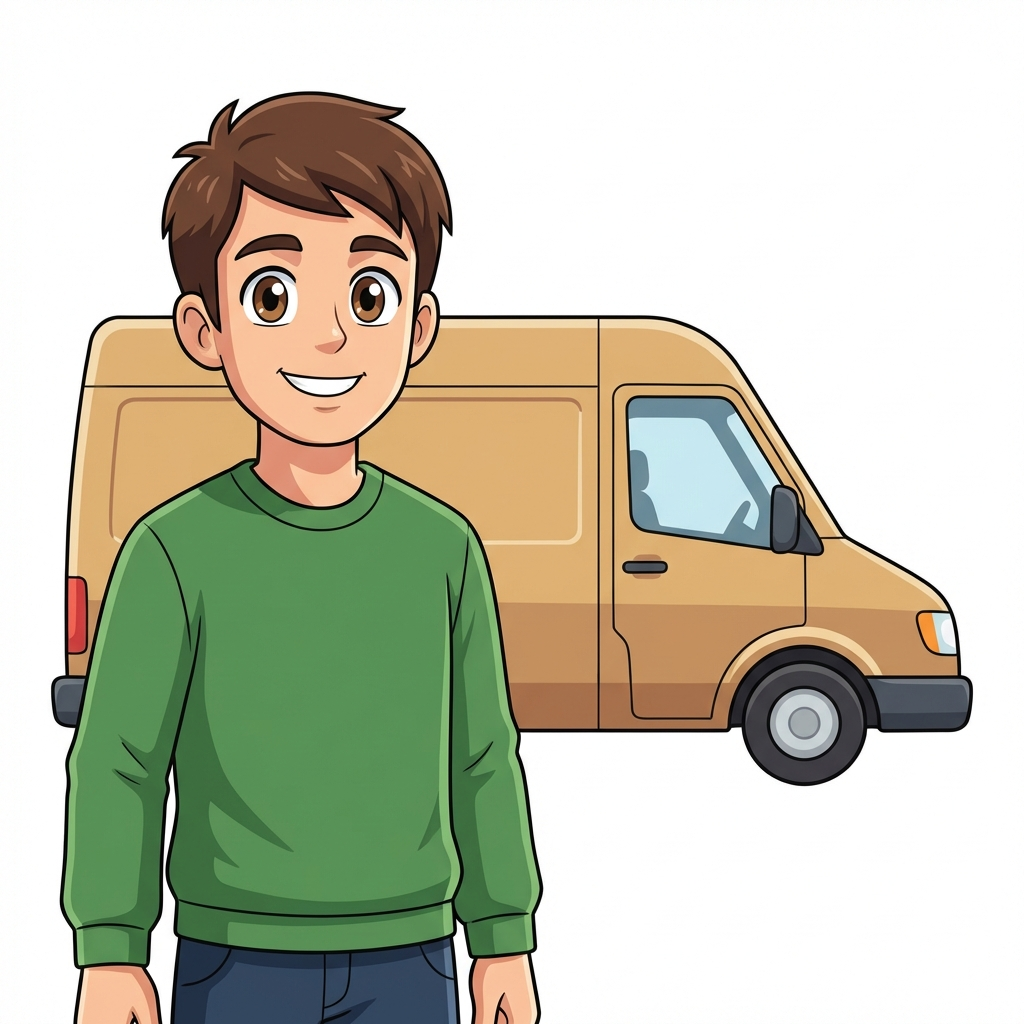
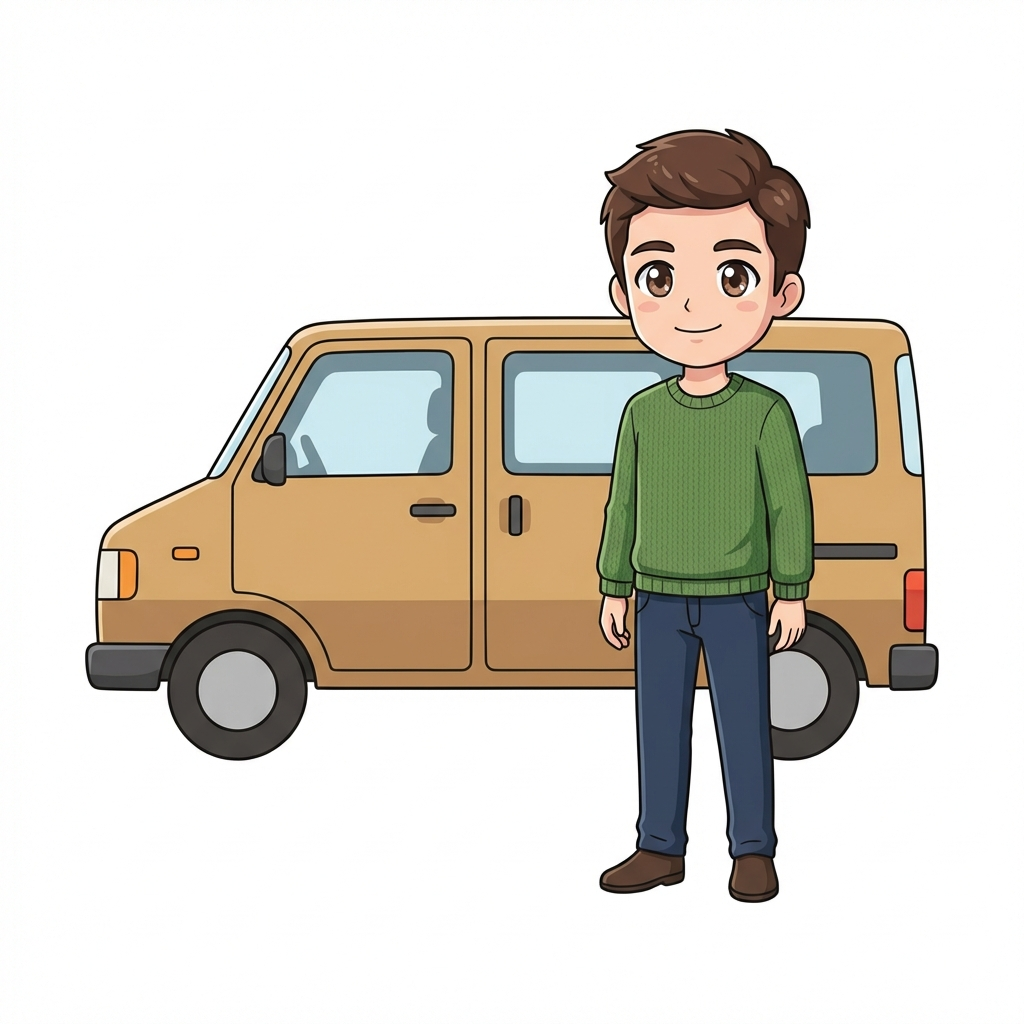
Ensure all characters and objects are in full view with breathing room for story cards

diff --git a/Characters/Sam/PROMPTS.md b/Characters/Sam/PROMPTS.md
@@ -12,13 +12,13 @@ Negative: lineless, fuzzy edges, realistic photo, 3d render, shiny, complex deta
 ```
 **Result:** [sam_standing.png](file:///Users/ricky/workspace/StorySliderArt/Characters/Sam/sam_standing.png)
 
-## Standing Pose (Modern Storybook Anime - 6yo)
+## Standing Pose (Modern Storybook Anime - 6yo - Full View)
 **Prompt:**
 ```markdown
-Subject: Sam, a 6-year-old young boy with messy brown hair, standing and looking forward. He has large, expressive anime-style eyes with clear highlights and distinct pupils (matching the style of sam_standing.jpeg from Inspiration). Friendly, kind expression. He is wearing a blue hoodie over a cream t-shirt and tan cargo shorts with red sneakers. 
+Subject: Sam, a 6-year-old young boy with messy brown hair, standing and looking forward. Sam must be COMPLETELY in view and centered. He has large, expressive anime-style eyes with clear highlights and distinct pupils. He is wearing a blue hoodie over a cream t-shirt and tan cargo shorts with red sneakers. 
 Style: digital vector illustration, modern storybook anime style, high quality, K-2 audience, calm atmosphere, clean vibrant colors, clear thin black outlines, simple cel-shading. 
-Format: 11:10 aspect ratio, solid white background #FFFFFF, minimal whitespace, subject fills frame. 
-Composition: Full body view. No background objects. 
-Negative: crazy eyes, staring, wide-eyed, realistic photo, 3d render, shiny, complex textures, scary, dark, night, neon, messy lines, sketch, face on object.
+Format: 11:10 aspect ratio, solid white background #FFFFFF, centered full body view, plenty of breathing room on all sides, no cropping. 
+Composition: Full body of Sam visible in frame. Ensure there is visible whitespace between his feet and the bottom edge, and around his hair/ears and the top/side edges. 
+Negative: cropped, cut off, partial view, off-screen, crazy eyes, staring, wide-eyed, realistic photo, 3d render, shiny, complex textures, scary, dark, night, neon, messy lines, sketch.
 ```
 **Result:** [sam_standing_anime.png](file:///Users/ricky/workspace/StorySliderArt/Characters/Sam/sam_standing_anime.png)

diff --git a/Characters/Man/PROMPTS.md b/Characters/Man/PROMPTS.md
@@ -1,13 +1,12 @@
 # Man - Image Generation Prompts
 
-## Running Pose (Modern Storybook Anime)
+## Running Pose (Modern Storybook Anime - Full View)
 **Prompt:**
 ```markdown
-Subject: An adult male running forward with a friendly, happy expression. He has short brown hair and large, expressive anime-style eyes with clear highlights and distinct pupils (matching the style of man_running.jpeg from Inspiration). He is wearing a blue sweatshirt and warm brown athletic pants, matching the color palette and style of the character Sam. 
+Subject: An adult male running forward with a friendly, happy expression. He must be COMPLETELY in view and centered. He has short brown hair and large, expressive anime-style eyes with clear highlights. He is wearing a blue sweatshirt and warm brown athletic pants, matching Sam's color palette. 
 Style: digital vector illustration, modern storybook anime style, high quality, K-2 audience, calm atmosphere, clean vibrant colors, clear thin black outlines, simple cel-shading. 
-Format: 11:10 aspect ratio, solid white background #FFFFFF, minimal whitespace, subject fills frame. 
-Composition: Full body view. No background objects. 
-Key Feature: Identical art style to Sam (6yo master), but as an adult male. 
-Negative: crazy eyes, staring, wide-eyed, neon colors, grey shorts, bright yellow stripes, realistic photo, 3d render, shiny, complex details, scary, dark, night, neon, messy lines, sketch, face on object, extreme muscle definition.
+Format: 11:10 aspect ratio, solid white background #FFFFFF, centered full body view, plenty of breathing room on all sides, no cropping. 
+Composition: Full body view. Ensure the entire character (from hair to feet) has plenty of breathing room from all edges. 
+Negative: cropped, cut off, partial view, off-screen, crazy eyes, staring, wide-eyed, neon colors, grey shorts, bright yellow stripes, realistic photo, 3d render, shiny, complex details, scary, dark, night, neon, messy lines, sketch, extreme muscle definition.
 ```
 **Result:** [man_running_anime.png](file:///Users/ricky/workspace/StorySliderArt/Characters/Man/man_running_anime.png)

diff --git a/Characters/Dan/PROMPTS.md b/Characters/Dan/PROMPTS.md
@@ -1,12 +1,10 @@
-# Dan - Image Generation Prompts
-
-## Standing with Van (Modern Storybook Anime)
+## Standing with Van (Modern Storybook Anime - Full View)
 **Prompt:**
 ```markdown
-Subject: Dan, a friendly adult male with short brown hair, standing confidently in front of his tan van. Dan has large, expressive anime-style eyes with clear highlights and distinct pupils. He is wearing a simple green sweater and dark pants. The tan van is parked behind him, rendered in a clean, simple vector style. 
+Subject: Dan, a friendly adult male with short brown hair, standing next to his tan van. Both Dan and his entire van must be COMPLETELY in view and centered. Dan has large, expressive anime-style eyes with clear highlights. He is wearing a green sweater and dark pants. The tan van is a simple, clean vector design. 
 Style: digital vector illustration, modern storybook anime style, high quality, K-2 audience, calm atmosphere, clean vibrant colors, clear thin black outlines, simple cel-shading. 
-Format: 11:10 aspect ratio, solid white background #FFFFFF, minimal whitespace, subject and van fill the frame. 
-Composition: Medium shot of Dan with the van visible behind him. No faces on the van. 
-Negative: face on object, sentient van, crazy eyes, staring, wide-eyed, realistic photo, 3d render, shiny, complex textures, scary, dark, night, neon, messy lines, sketch.
+Format: 11:10 aspect ratio, solid white background #FFFFFF, centered full body view, plenty of breathing room on all sides, no cropping. 
+Composition: Full body of Dan and the entire van visible in frame. No parts of Dan or the van should touch the edges of the image. 
+Negative: cropped, cut off, partial view, off-screen, face on object, sentient van, crazy eyes, staring, wide-eyed, realistic photo, 3d render, shiny, complex textures, scary, dark, night, neon, messy lines, sketch.
 ```
 **Result:** [dan_with_van.png](file:///Users/ricky/workspace/StorySliderArt/Characters/Dan/dan_with_van.png)

diff --git a/Characters/Rat/PROMPTS.md b/Characters/Rat/PROMPTS.md
@@ -1,12 +1,12 @@
 # Rat - Image Generation Prompts
 
-## Running Pose (Modern Storybook)
+## Running Pose (Modern Storybook Anime - Full View)
 **Prompt:**
 ```markdown
-Subject: A cute and friendly rat, running joyfully. It has a mischievous but sweet expression, soft grey and white fur, and small pink ears. It has large, expressive black eyes (clean storybook style, no anime sparkles). 
-Style: digital vector illustration, modern storybook style, high quality, K-2 audience, calm atmosphere, clean vibrant colors, clear thin black outlines, simple cel-shading, friendly expression. 
-Format: 11:10 aspect ratio, solid white background #FFFFFF, minimal whitespace, subject fills frame. 
-Composition: Full body view. No background objects. 
-Negative: anime, sparkles, complex eye reflections, realistic photo, 3d render, shiny, complex details, scary, dark, night, neon, messy lines, sketch, face on object.
+Subject: A cute and friendly rat, running joyfully. The entire rat must be COMPLETELY in view and centered. It has soft grey and white fur, small pink ears, and large, expressive anime-style eyes with clear highlights. 
+Style: digital vector illustration, modern storybook anime style, high quality, K-2 audience, calm atmosphere, clean vibrant colors, clear thin black outlines, simple cel-shading. 
+Format: 11:10 aspect ratio, solid white background #FFFFFF, centered full view, plenty of breathing room on all sides, no cropping. 
+Composition: Full body view. Ensure feet and tail are all well within the frame with plenty of breathing room. 
+Negative: cropped, cut off, partial view, off-screen, realistic photo, 3d render, shiny, complex textures, scary, dark, night, neon, messy lines, sketch.
 ```
-**Result:** [rat_running.png](file:///Users/ricky/workspace/StorySliderArt/Characters/Rat/rat_running.png)
+**Result:** [rat_running_anime.png](file:///Users/ricky/workspace/StorySliderArt/Characters/Rat/rat_running_anime.png)

diff --git a/Characters/Yak/PROMPTS.md b/Characters/Yak/PROMPTS.md
@@ -1,10 +1,10 @@
-## Standing Pose (Modern Storybook)
+## Standing Pose (Modern Storybook Anime - Full View)
 **Prompt:**
 ```markdown
-Subject: A friendly yak, standing and looking forward. It has warm brown and creamy white fur. It has large, expressive black eyes (clean storybook style, no anime sparkles) and curved grey horns. 
-Style: digital vector illustration, modern storybook style, high quality, K-2 audience, calm atmosphere, clean vibrant colors, clear thin black outlines, simple cel-shading, friendly expression. 
-Format: 11:10 aspect ratio, solid white background #FFFFFF, minimal whitespace, subject fills frame. 
-Composition: Full body view. No background objects. 
-Negative: anime, sparkles, complex eye reflections, flower, busy detail, realistic, 3d render, shiny, scary, dark, night, neon, messy lines, sketch, face on object.
+Subject: A friendly yak, standing and looking forward. The entire yak must be COMPLETELY in view and centered. It has warm brown and creamy white fur, curved grey horns, and large, expressive anime-style eyes with clear highlights. 
+Style: digital vector illustration, modern storybook anime style, high quality, K-2 audience, calm atmosphere, clean vibrant colors, clear thin black outlines, simple cel-shading. 
+Format: 11:10 aspect ratio, solid white background #FFFFFF, centered full view, plenty of breathing room on all sides, no cropping. 
+Composition: Full body view. Ensure horns, tail, and feet are all far from the edges with plenty of whitespace. 
+Negative: cropped, cut off, partial view, off-screen, anime (faces on objects), flower, busy detail, realistic, 3d render, shiny, scary, dark, night, neon, messy lines, sketch.
 ```
-**Result:** [yak_standing.png](file:///Users/ricky/workspace/StorySliderArt/Characters/Yak/yak_standing.png)
+**Result:** [yak_standing_anime.png](file:///Users/ricky/workspace/StorySliderArt/Characters/Yak/yak_standing_anime.png)

diff --git a/Characters/Yak/CHARACTER.md b/Characters/Yak/CHARACTER.md
@@ -3,10 +3,10 @@
 **Age Group:** K-2 Appropriate.
 **Appearance:**
 *   **Fur:** Warm brown and creamy white fur. Simplified shapes, low visual complexity.
-*   **Facial Features:** Friendly face, large gentle expressive eyes (simple storybook style), and curved grey horns.
-*   **Style:** Modern Storybook style with clear black outlines and simple cel-shading.
+*   **Facial Features:** Friendly face, large gentle expressive anime-style eyes, and curved grey horns.
+*   **Style:** Modern Storybook Anime style with clear black outlines and simple cel-shading.
 *   **Background:** Always #FFFFFF white.
 **Personality:** Gentle, steady, and kind.
 
 ## Reference Images
-*   [Standing Pose](file:///Users/ricky/workspace/StorySliderArt/Characters/Yak/yak_standing.png)
+*   [Standing Pose](file:///Users/ricky/workspace/StorySliderArt/Characters/Yak/yak_standing_anime.png)

diff --git a/.agent/workflows/generate-art.md b/.agent/workflows/generate-art.md
@@ -29,7 +29,9 @@ The art style is **Modern Storybook Anime**. It is designed to be **calm, clear,
 *   **Composition & Format:**
     *   **Aspect Ratio:** Always maintain an **11:10** aspect ratio.
     *   **Background:** Always use a solid white background (**#FFFFFF**).
-    *   **Whitespace:** The subject should be centered and fill most of the frame, with minimal but balanced whitespace.
+    *   **Whitespace & Composition:** The subject must be **completely in view** and centered. Ensure there is visible whitespace (breathing room) on all sides of the subject. 
+    *   **No Crops:** Portions of the characters or objects (feet, ears, tails, wheels) must **NEVER** go off-screen.
+    *   **Full Body:** Always provide a full body/full object view unless specifically asked otherwise.
 
 ## Character Consistency
 

diff --git a/Characters/Rat/CHARACTER.md b/Characters/Rat/CHARACTER.md
@@ -3,10 +3,10 @@
 **Age Group:** K-2 Appropriate.
 **Appearance:**
 *   **Fur:** Soft grey and white fur.
-*   **Facial Features:** Mischievous but sweet expression, large expressive black eyes (simple storybook style).
-*   **Style:** Modern Storybook style with clear black outlines and simple cel-shading.
+*   **Facial Features:** Mischievous but sweet expression, large expressive anime-style eyes.
+*   **Style:** Modern Storybook Anime style with clear black outlines and simple cel-shading.
 *   **Background:** Always #FFFFFF white.
 **Personality:** Mischievous, joyful, and sweet.
 
 ## Reference Images
-*   [Running Pose](file:///Users/ricky/workspace/StorySliderArt/Characters/Rat/rat_running.png)
+*   [Running Pose](file:///Users/ricky/workspace/StorySliderArt/Characters/Rat/rat_running_anime.png)
